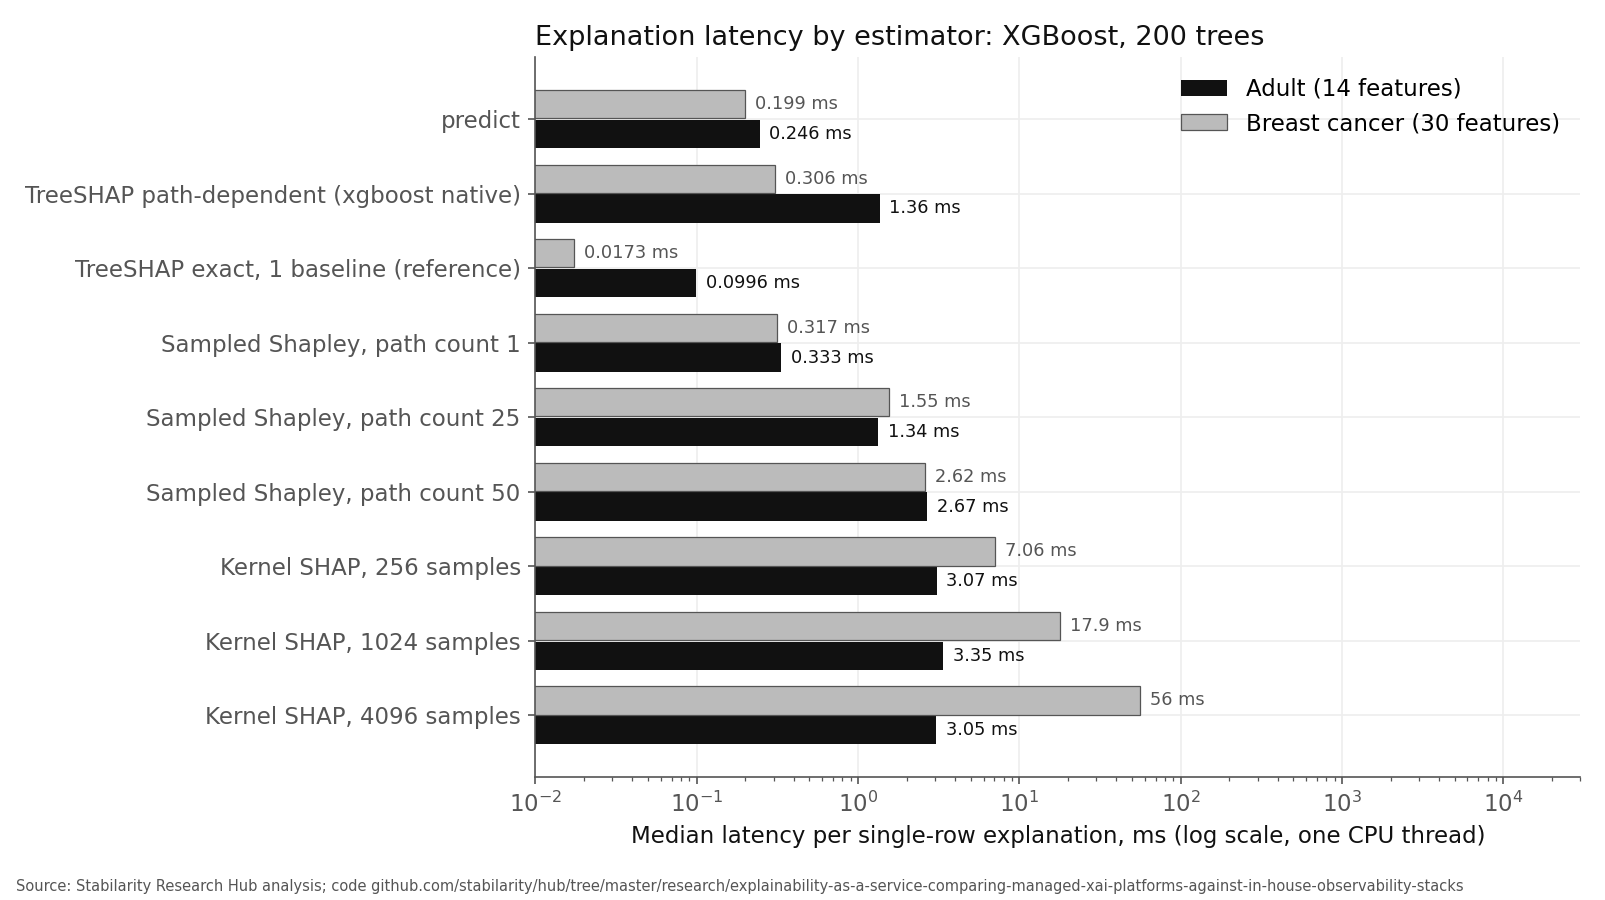
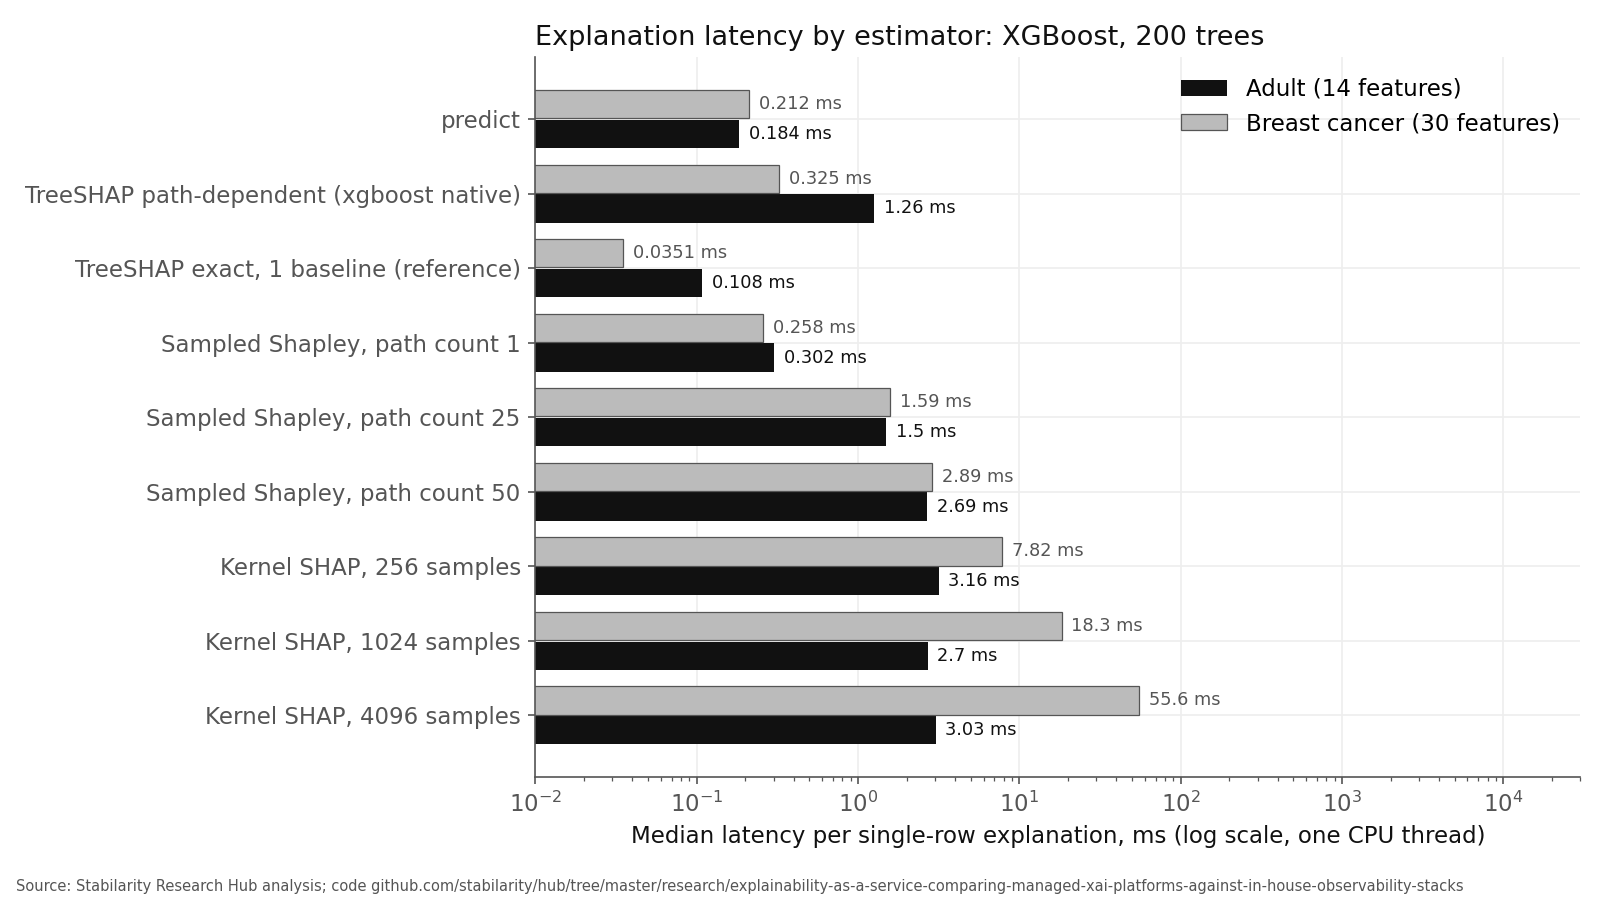
research: Explainability-as-a-Service: Comparing Managed XAI Platforms Against In-House Observability Stacks

diff --git a/research/explainability-as-a-service-comparing-managed-xai-platforms-against-in-house-observability-stacks/analysis.py b/research/explainability-as-a-service-comparing-managed-xai-platforms-against-in-house-observability-stacks/analysis.py
@@ -355,9 +355,18 @@ def tco(results):
             u = R * a["llm_spans_per_request"]
         else:
             u = units(R, a)
-        over = max(0.0, u - float(plan["included_units"]))
-        return float(plan["base_usd_month"]) + math.ceil(over / float(plan["overage_per_units"])) * float(
-            plan["overage_usd"])
+        inc, per = float(plan["included_units"]), float(plan["overage_per_units"])
+        if plan.get("graduated_tiers"):  # Langfuse calculator: graduated $/100k above the included units
+            cost, lo = 0.0, inc
+            for tier in plan["graduated_tiers"].split(";"):
+                cap, rate = tier.split(":")
+                hi = float(cap)
+                if u > lo:
+                    cost += (min(u, hi) - lo) / per * float(rate)
+                lo = hi
+            return float(plan["base_usd_month"]) + cost
+        over = max(0.0, u - inc)
+        return float(plan["base_usd_month"]) + math.ceil(over / per) * float(plan["overage_usd"])
 
     def self_cost(R, a, fte):
         u = units(R, a)
@@ -477,7 +486,7 @@ def chart3(grid, curves, sh):
               "Langfuse Cloud Core": ("--", MID)}
     for k, v in curves.items():
         ls, c = styles[k]
-        ax.plot(grid, v, ls=ls, color=c, lw=2, label=k + " (list price)")
+        ax.plot(grid, v, ls=ls, color=c, lw=2, label=k + (" (graduated list price)" if "Langfuse" in k else " (list price)"))
     ax.fill_between(grid, sh["self_low"], sh["self_high"], color=GRID, label="Self-hosted, 0.10-0.50 FTE")
     ax.plot(grid, sh["self_base"], color=LIGHT, lw=2.5, label="Self-hosted, 0.25 FTE (base case)")
     ax.set_xscale("log"); ax.set_yscale("log")

diff --git a/research/explainability-as-a-service-comparing-managed-xai-platforms-against-in-house-observability-stacks/README.md b/research/explainability-as-a-service-comparing-managed-xai-platforms-against-in-house-observability-stacks/README.md
@@ -49,8 +49,8 @@ shap 0.54.1, xgboost 3.2.0, torch 2.10, captum 0.9.0. Attribution values and fid
   correlation of |attribution|; overlap of the top-3 features. Compute cost per million explanations uses the
   per-vCPU share of an m7i.xlarge on-demand price (our estimate).
 - **TCO model.** Each traced request = 1 trace, 4 LLM spans, 6 other spans, 1 score. Datadog bills LLM spans only;
-  Langfuse bills every trace, observation and score as a unit (list overage price; the page says it is lower with
-  volume, so the Langfuse curve is an upper bound). Self-hosted: 3 m7i.xlarge nodes plus 1 m7i.2xlarge per 100M
+  Langfuse bills every trace, observation and score as a unit, at the graduated rates of its pricing calculator
+  ($8, $7, $6.50 and $6 per 100k units above 100k, 1M, 10M and 50M units). Self-hosted: 3 m7i.xlarge nodes plus 1 m7i.2xlarge per 100M
   units per month, +25% for storage and backups, and 0.25 FTE of a software developer at the BLS May 2025 median wage
   ($135,980) times a 1.3 loading factor. Sensitivity: 0.10 and 0.50 FTE; 2 and 8 LLM spans per request.
   All self-hosted figures are our estimates.
